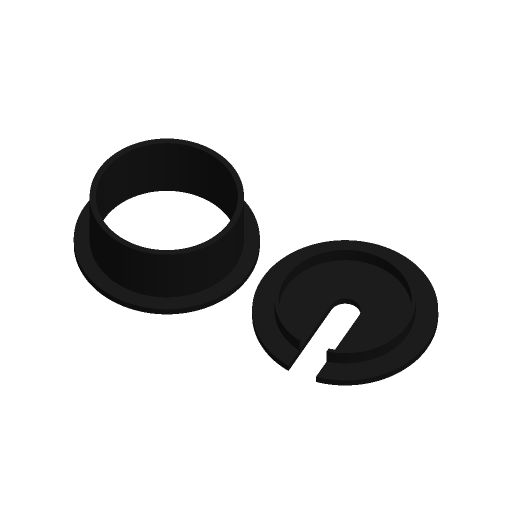
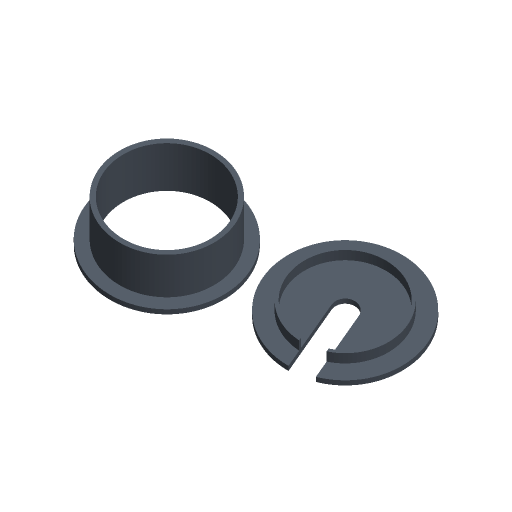
fix(models): cable-grommet shrinks cap text to fit instead of clipping it
Long cap_text was cut off by the rim. Default colour is slate grey so the
catalogue thumbnail reads; captions state units; verify.sh fails on
OpenSCAD warnings and checks text stays inside the rim.

Claude-Session: https://claude.ai/code/session_01X17nidom5KxL41d2nZa3rs

Changed region(s): [[0.125, 0.25, 0.875, 0.75]]

diff --git a/models/cable-grommet/README.md b/models/cable-grommet/README.md
@@ -39,15 +39,15 @@ supports:
 |---|---|---|
 | `cap_style` | `slot` | `slot`: a round-ended slot from the middle out through the edge (and the lip) for the cables. `brush_segments`: radial fingers 1.2 mm thick across the opening, split by 0.8 mm slits, that flex apart around cables — about one finger per 6 mm of circumference. `solid`: blank. `open_ring`: a trim ring only, the whole bore open. |
 | `slot_w` | `12` | Slot width. Capped at 80 % of the lip's bore so a wide slot on a small hole cannot cut the cap in two. |
-| `cap_text` | *(empty)* | Up to 12 characters inlaid 0.6 mm into the cap's top face, `slot` and `solid` styles only (the other two have no face to put it on). Letter height is `0.13 * hole_d`; text is centred in the solid half opposite the slot and cut off 1.5 mm inside the edges, not scaled. |
+| `cap_text` | *(empty)* | Up to 12 characters inlaid 0.6 mm into the cap's top face, `slot` and `solid` styles only (the other two have no face to put it on). Letters are up to `0.13 * hole_d` tall, centred in the solid half opposite the slot (or across the middle of a solid cap), and shrink to stay 1.5 mm inside the rim — a long word gets smaller rather than cut off. |
 | `font` | `DejaVu Sans:style=Bold` | Typeface for the cap text (`// font`). |
 
 ### Colors
 
 | Parameter | Default | What it does |
 |---|---|---|
-| `sleeve_color` | `#1E1E1E` | Sleeve and flange. |
-| `cap_color` | `#1E1E1E` | Cap. |
+| `sleeve_color` | `#5B6470` | Sleeve and flange. |
+| `cap_color` | `#5B6470` | Cap. |
 | `cap_text_color` | `#FFFFFF` | Inlaid cap text. |
 
 Hidden: sleeve wall 2.4 mm, flange 3 mm, cap plate 3 mm, lip 6 mm deep with a
@@ -62,8 +62,9 @@ Hidden: sleeve wall 2.4 mm, flange 3 mm, cap plate 3 mm, lip 6 mm deep with a
 | `cap_text_color` | cap text | 3 |
 
 The order of the `color` parameters in the source is the extruder order. The
-defaults give the sleeve and the cap the same colour, so they merge into one
-part on one filament; with no `cap_text` the default plate is single-colour.
+defaults give the sleeve and the cap the same slate grey, so they merge into
+one part on one filament; with no `cap_text` the default plate is
+single-colour. Set both to black or white to match the desk.
 
 ## Dimensions
 
@@ -89,13 +90,14 @@ and the plate is `2 * flange + 6` long.
 
 Renders the defaults, the slot cap with text, brush fingers, a square solid cap
 with text, the open ring, a 20 mm hole with `fit = 0` and a too-wide slot, and a
-100 mm hole with `fit = 1`, and checks each 3MF: the number of non-empty
+100 mm hole with `fit = 1`, and a 12-character word on a slot cap and a solid cap, and checks each 3MF: no
+OpenSCAD warnings, the number of non-empty
 materials (1 for the defaults, 2 or 3 with a distinct cap colour and text),
 `Default` empty, the plate footprint and height, z=0, the sleeve and cap
 heights, that the pieces do not overlap, and for round holes the sleeve OD, bore
 and cap lip OD against `hole_d` and `fit` — plus fingers present for
 `brush_segments`, nothing inside the bore for `open_ring`, and the text in the
-cap's bed-side face. The 3MF parsing runs on the host with `python3` and the
+cap's bed-side face and inside the rim (shrunk, not cut off). The 3MF parsing runs on the host with `python3` and the
 standard library only.
 
 ## Needs a test print
